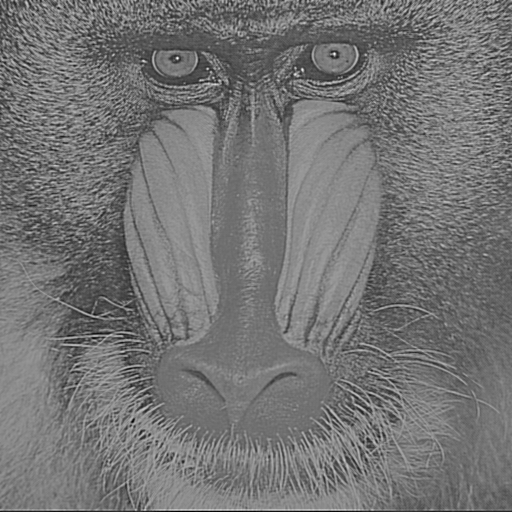
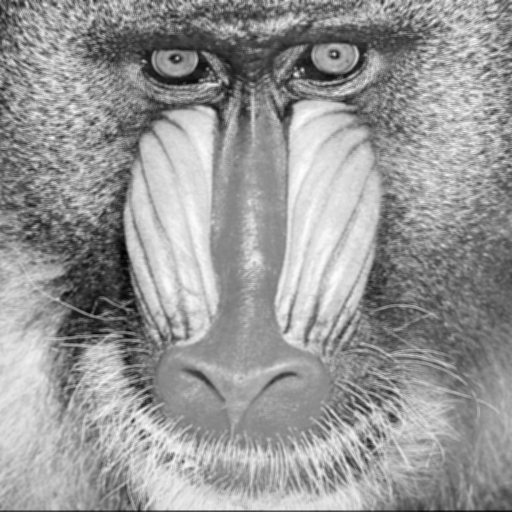
add parameters in functions and rename files

diff --git a/main.py b/main.py
@@ -5,39 +5,40 @@ from scipy import ndimage
 
 
 # Transformação de intensidade
-def intensity():
-  city_image = Image.open('images/city.png')
-  city_image = np.array(city_image)
-  negative_image = np.invert(city_image)
-  negative_image = Image.fromarray(negative_image)
-  negative_image.save('results/intensity01.png')
+def intensity(op=1):
+  if (op == 1):
+    city_image = Image.open('images/city.png')
+    city_image = np.array(city_image)
+    negative_image = np.invert(city_image)
+    negative_image = Image.fromarray(negative_image)
+    negative_image.save('results/intensity.png')
+  elif op == 2:
+    tranf_img = Image.open('images/city.png')
+    tranf_img = np.array(tranf_img)
+    tranf_img = np.interp(tranf_img, (0, 255), (100, 200))
+    tranf_img = Image.fromarray(tranf_img.astype(np.uint8))
+    tranf_img.save('results/intensity.png')
+  elif op == 3:  
+    odd_invert = Image.open('images/city.png')
+    odd_invert = np.array(odd_invert)
+    odd_invert[::2] = np.fliplr(odd_invert[::2])
+    odd_invert = Image.fromarray(odd_invert)
+    odd_invert.save('results/intensity.png')
+  elif op == 4:
+    half_img = Image.open('images/city.png')
+    half_img = np.array(half_img)
+    size = int(len(half_img)/2)
+    up_half_img = half_img[:size]
+    up_half_img = np.flipud(up_half_img)
 
-  tranf_img = Image.open('images/city.png')
-  tranf_img = np.array(tranf_img)
-  tranf_img = np.interp(tranf_img, (0, 255), (100, 200))
-  tranf_img = Image.fromarray(tranf_img.astype(np.uint8))
-  tranf_img.save('results/intensity02.png')
-
-  odd_invert = Image.open('images/city.png')
-  odd_invert = np.array(odd_invert)
-  odd_invert[::2] = np.fliplr(odd_invert[::2])
-  odd_invert = Image.fromarray(odd_invert)
-  odd_invert.save('results/intensity03.png')
-
-  half_img = Image.open('images/city.png')
-  half_img = np.array(half_img)
-  size = int(len(half_img)/2)
-  up_half_img = half_img[:size]
-  up_half_img = np.flipud(up_half_img)
-
-  half_img[size:] = up_half_img
-  half_img = Image.fromarray(half_img)
-  half_img.save('results/intensity04.png')
-
-  mirror_img = Image.open('images/city.png') 
-  mirror_img = np.flipud(mirror_img)
-  mirror_img = Image.fromarray(mirror_img)
-  mirror_img.save('results/intensity05.png')
+    half_img[size:] = up_half_img
+    half_img = Image.fromarray(half_img)
+    half_img.save('results/intensity.png')
+  elif op == 5:
+    mirror_img = Image.open('images/city.png') 
+    mirror_img = np.flipud(mirror_img)
+    mirror_img = Image.fromarray(mirror_img)
+    mirror_img.save('results/intensity.png')
 
 # Ajuste de brilho
 def brightness(y):
@@ -46,7 +47,7 @@ def brightness(y):
   baboon_image = (baboon_image/255) ** (1/y)
   baboon_image = baboon_image * 255
   baboon_image = Image.fromarray(baboon_image.astype(np.uint8))
-  baboon_image.save('results/brightness01.png')
+  baboon_image.save('results/brightness.png')
 
 # Planos de bits
 def bits_plan(bit):
@@ -54,7 +55,7 @@ def bits_plan(bit):
   baboon_image = np.array(baboon_image)
   baboon_image = ((baboon_image >> bit) & 1) * 255
   baboon_image = Image.fromarray(baboon_image.astype(np.uint8))
-  baboon_image.save('results/bits_plan01.png')
+  baboon_image.save('results/bits_plan.png')
   
 def mosaic_chunks(lst, n):
   for i in range(0, len(lst), n):
@@ -91,56 +92,134 @@ def mosaic():
 
 
 # Combinação de imagens 
-def image_combinator():
+def image_combinator(a=0.5, b=0.5):
   baboon_image = Image.open('images/baboon.png')
   baboon_image = np.array(baboon_image)
 
   butterfly_image = Image.open('images/butterfly.png')
   butterfly_image = np.array(butterfly_image)
 
-  img_combination = baboon_image * 0.5 + butterfly_image * 0.5
+  img_combination = baboon_image * a + butterfly_image * b
   img_combination = Image.fromarray(img_combination.astype(np.uint8))
   img_combination.save('results/combination.png')
 
 
-def image_filter():
+def image_filter(filter='h1'):
   baboon_image = Image.open('images/baboon.png')
   baboon_image = np.array(baboon_image, dtype=np.float64)
-  # h1
-  # filter_array = np.array([[0, 0, -1, 0, 0],[0, -1, -2, -1, 0],[-1, -2, -16, -2, -1],[0, -1, -2, -1, 0],[0, 0, -1, 0, 0]])
+  filter_array = np.array([])
   
-  # h2
-  # filter_array = (1/256) * np.array([[1, 4, 6, 4, 1],[4, 16, 24, 16, 4],[6, 24, 36, 24, 6],[4, 16, 24, 16, 4],[1, 4, 6, 4, 1]])
-  
-  # h3
-  # filter_array = np.array([[-1, 0, 1], [-2, 0, 2], [-1, 0, 1]])
-  
-  # h4
-  # filter_array = np.array([[-1, 2, 1], [0, 0, 0], [1, 2, 1]])
-  
-  # h5
-  # filter_array = np.array([[-1, -1, -1], [-1, 8, -1], [-1, -1, -1]])
-  
-  # h6
-  # filter_array = (1/9) * np.array([[1, 1, 1], [1, 1, 1], [1, 1, 1]])
-  
-  # h7
-  # filter_array = np.array([[-1, -1, 2], [-1, 2, -1], [2, -1, -1]])
-  
-  # h8
-  # filter_array = np.array([[2, -1, -1,], [-1, 2, -1], [-1, -1, 2]])
-  
-  # h9
-  # filter_array = (1/9) * np.array([[1,0,0,0,0,0,0,0,0], [0,1,0,0,0,0,0,0,0], [0,0,1,0,0,0,0,0,0], [0,0,0,1,0,0,0,0,0], [0,0,0,0,1,0,0,0,0], [0,0,0,0,0,1,0,0,0], [0,0,0,0,0,0,1,0,0], [0,0,0,0,0,0,0,1,0], [0,0,0,0,0,0,0,0,1]])
-  
-  # h10
-  filter_array = (1/8) *np.array([[-1,-1,-1,-1,-1], [-1,2,2,2,-1], [-1,2,8,2,-1], [-1,2,2,2,-1], [-1,-1,-1,-1,-1]])
-  
-  # h11
-  # filter_array = np.array([[-1, -1, 0], [-1, 0, 1], [0, 1, 1]])
+  if(filter == 'h1'):
+    # h1
+    filter_array = np.array([
+      [0, 0, -1, 0, 0],
+      [0, -1, -2, -1, 0],
+      [-1, -2, -16, -2, -1],
+      [0, -1, -2, -1, 0],
+      [0, 0, -1, 0, 0]
+    ])
 
-  # h3 + h4
-  # filter_array = (np.array([[-1, 0, 1], [-2, 0, 2], [-1, 0, 1]]) ** 2 + np.array([[-1, 2, 1], [0, 0, 0], [1, 2, 1]]) ** 2) ** (1/2)
+  if(filter == 'h2'):
+    # h2
+    filter_array = (1/256) * np.array([
+      [1, 4, 6, 4, 1],
+      [4, 16, 24, 16, 4],
+      [6, 24, 36, 24, 6],
+      [4, 16, 24, 16, 4],
+      [1, 4, 6, 4, 1]
+    ])
+  
+  if(filter == 'h3'):
+    # h3
+    filter_array = np.array([
+      [-1, 0, 1], 
+      [-2, 0, 2],
+      [-1, 0, 1]
+    ])
+  
+  if(filter == 'h4'):
+    # h4
+    filter_array = np.array([
+      [-1, 2, 1], 
+      [0, 0, 0], 
+      [1, 2, 1]
+    ])
+  
+  if(filter == 'h5'):
+    # h5
+    filter_array = np.array([
+      [-1, -1, -1], 
+      [-1, 8, -1], 
+      [-1, -1, -1]
+    ])
+  
+  if(filter == 'h6'):
+    # h6
+    filter_array = (1/9) * np.array([
+      [1, 1, 1], 
+      [1, 1, 1], 
+      [1, 1, 1]
+    ])
+  
+  if(filter == 'h7'):
+    # h7
+    filter_array = np.array([
+      [-1, -1, 2], 
+      [-1, 2, -1], 
+      [2, -1, -1]
+    ])
+  
+  if(filter == 'h8'):
+    # h8
+    filter_array = np.array([
+      [2, -1, -1,],
+      [-1, 2, -1],
+      [-1, -1, 2]
+    ])
+  
+  if(filter == 'h9'):
+    # h9
+    filter_array = (1/9) * np.array([
+      [1,0,0,0,0,0,0,0,0], 
+      [0,1,0,0,0,0,0,0,0], 
+      [0,0,1,0,0,0,0,0,0], 
+      [0,0,0,1,0,0,0,0,0], 
+      [0,0,0,0,1,0,0,0,0], 
+      [0,0,0,0,0,1,0,0,0], 
+      [0,0,0,0,0,0,1,0,0], 
+      [0,0,0,0,0,0,0,1,0], 
+      [0,0,0,0,0,0,0,0,1]
+    ])
+  
+  if(filter == 'h10'):
+    # h10
+    filter_array = (1/8) * np.array([
+      [-1, -1, -1, -1, -1], 
+      [-1, 2, 2, 2, -1], 
+      [-1, 2, 8, 2, -1], 
+      [-1, 2, 2, 2, -1], 
+      [-1, -1, -1, -1, -1]
+    ])
+  
+  if(filter == 'h11'):
+    # h11
+    filter_array = np.array([
+      [-1, -1, 0],
+      [-1, 0, 1], 
+      [0, 1, 1]
+    ])
+
+  if(filter == 'h3+h4'):
+    # h3 + h4
+    filter_array = (np.array([
+      [-1, 0, 1], 
+      [-2, 0, 2], 
+      [-1, 0, 1]]
+    ) ** 2 + np.array([
+      [-1, 2, 1], 
+      [0, 0, 0], 
+      [1, 2, 1]
+    ]) ** 2) ** (1/2)
   
   filter_img = ndimage.convolve(baboon_image, filter_array)
   filter_img = ((filter_img - filter_img.min()) * (255 / (filter_img.max() - filter_img.min())))
@@ -148,10 +227,12 @@ def image_filter():
   filter_img.save('results/filter_img.png')
 
 
-intensity()
-bits_plan(5)
-brightness(1.5)
+def main():
+  intensity()
+  bits_plan(7)
+  brightness(3.5)
+  mosaic()
+  image_combinator()
+  image_filter('h3+h4')
 
-# mosaic()
-# image_combinator()
-# image_filter()
+main()
